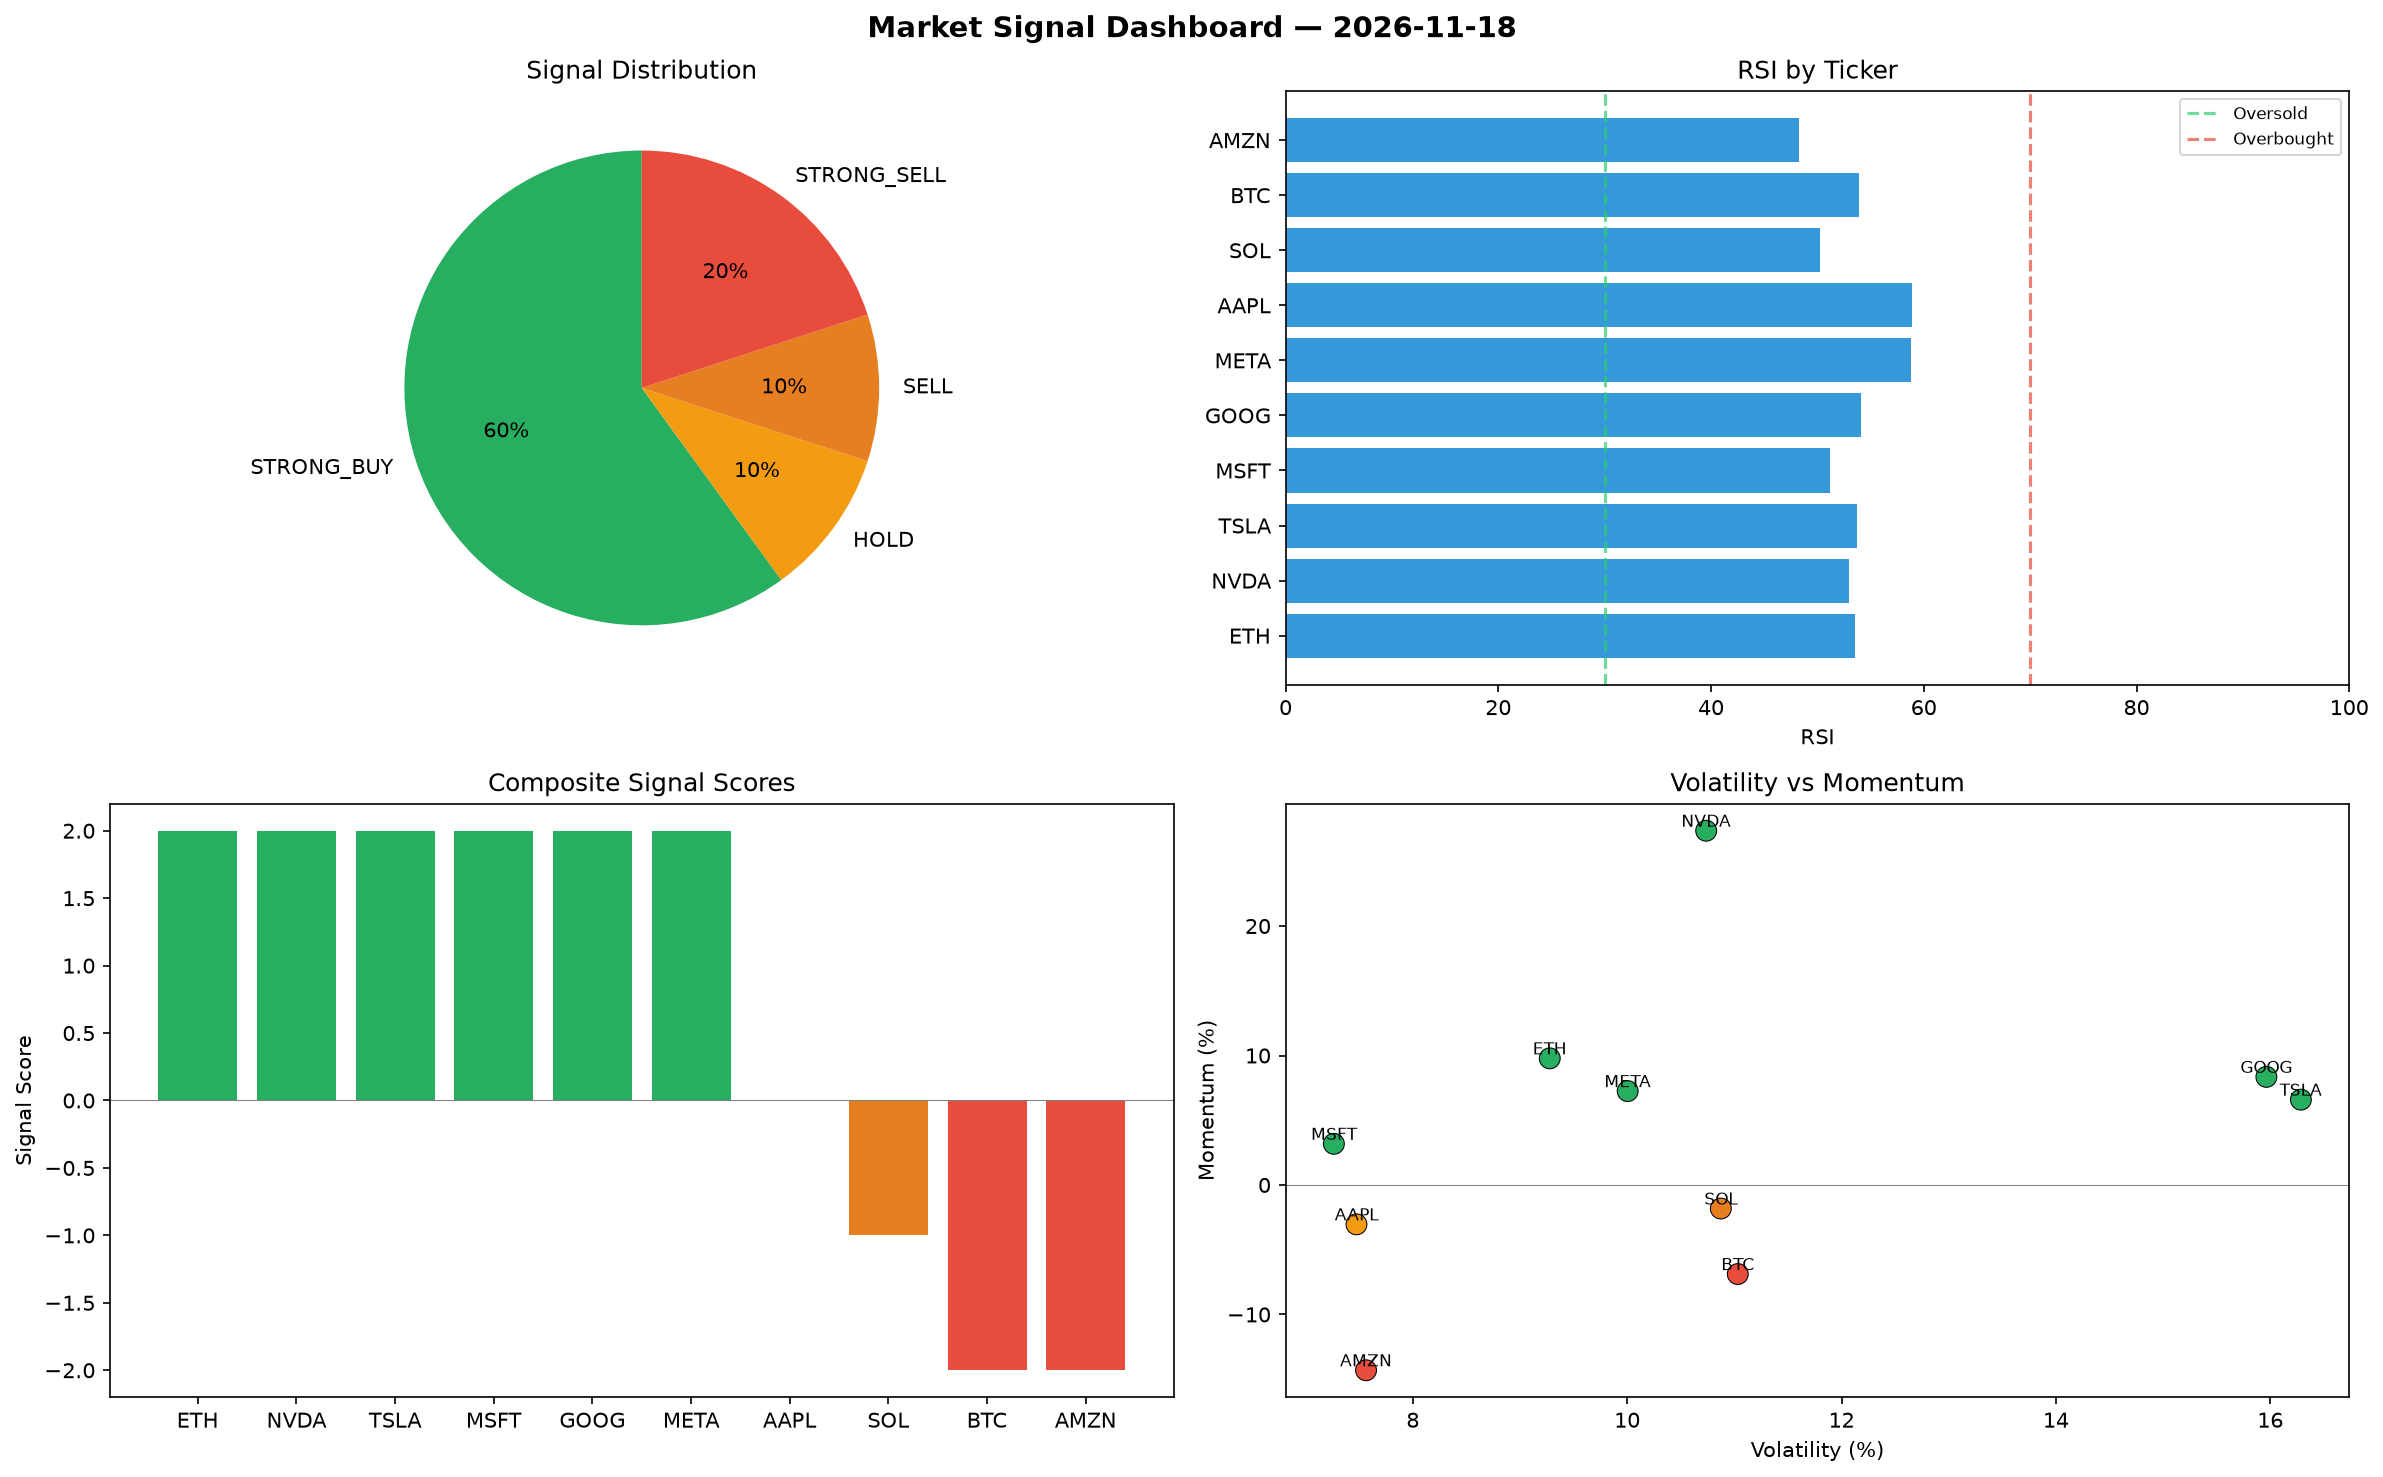
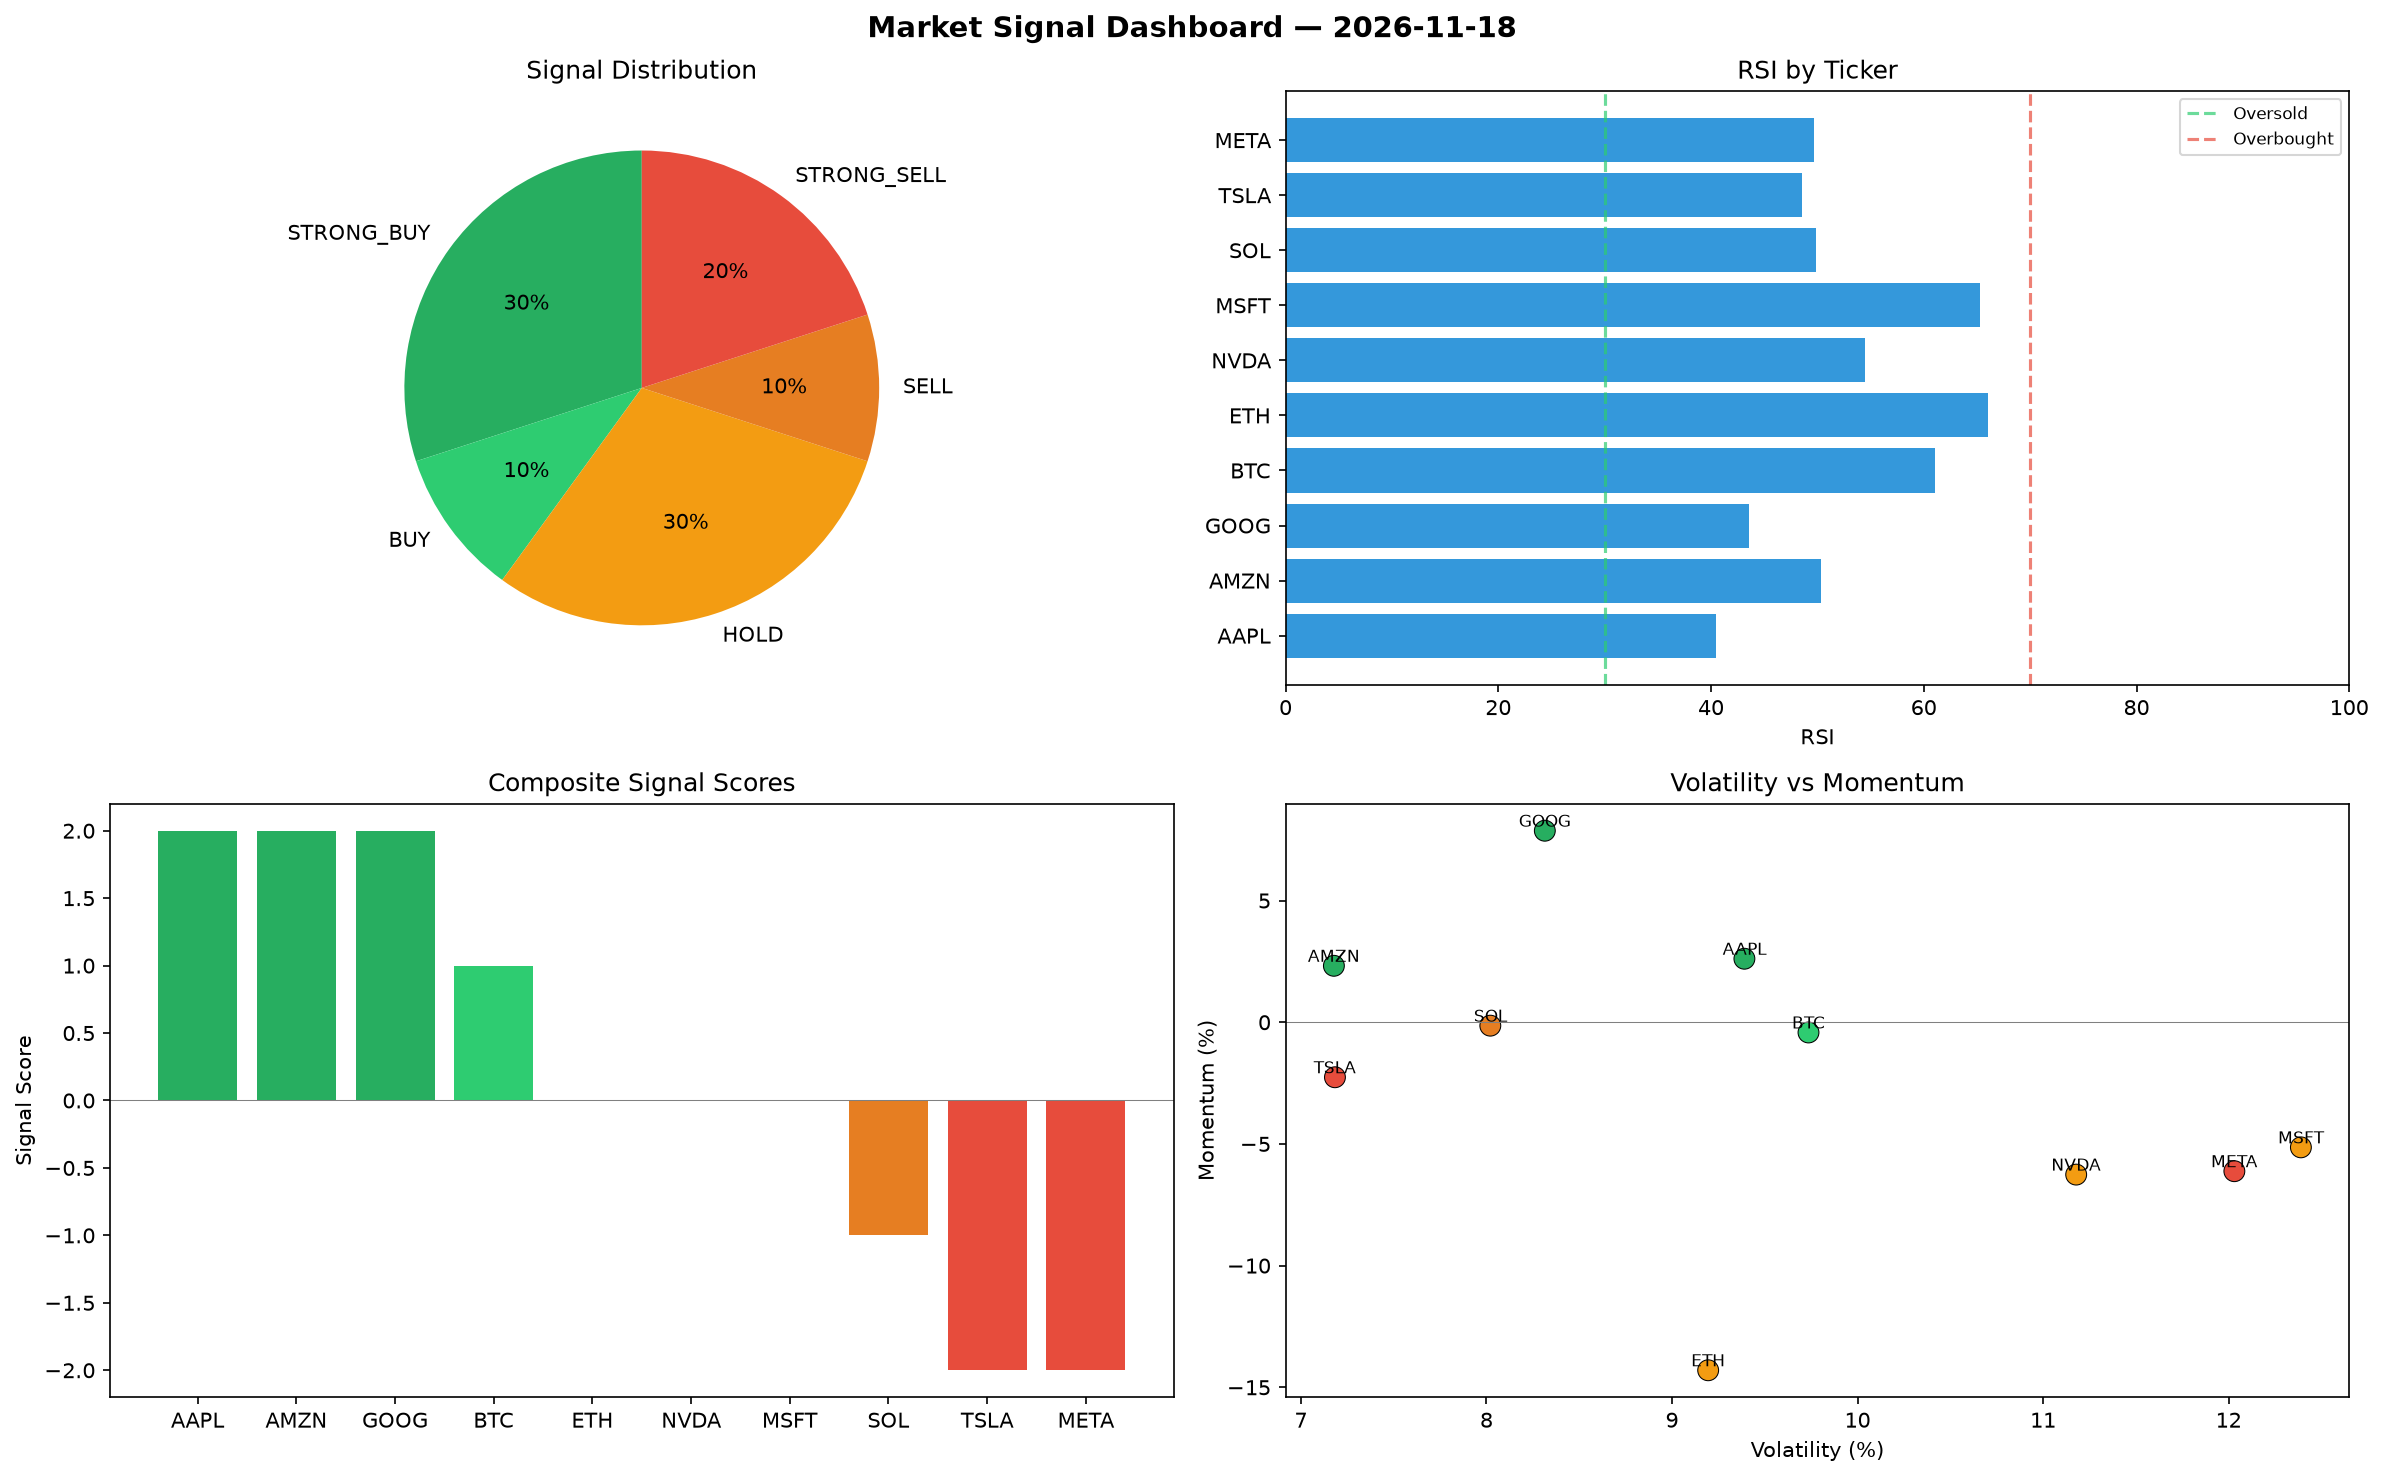
automated-bots: market signals 2026-11-18T10:28

diff --git a/logs/2026-11-18.md b/logs/2026-11-18.md
@@ -1,6 +1,6 @@
 # Market Signal Report — 2026-11-18
 
-**Run ID:** `91dcbb60d6` | **Buy:** 6 | **Sell:** 3 | **Hold:** 1
+**Run ID:** `f32b46c21a` | **Buy:** 4 | **Sell:** 3 | **Hold:** 3
 
 ![Dashboard](2026-11-18_dashboard.png)
 
@@ -8,28 +8,28 @@
 
 | Ticker | Price | Signal | Score | RSI | Momentum | Confidence |
 |--------|-------|--------|-------|-----|----------|------------|
-| ETH | $222.29 | **STRONG_BUY** | 2 | 53.56 | 0.0978 | 0.5 |
-| NVDA | $2829.89 | **STRONG_BUY** | 2 | 52.94 | 0.2736 | 0.5 |
-| TSLA | $2703.67 | **STRONG_BUY** | 2 | 53.68 | 0.0659 | 0.5 |
-| MSFT | $4023.63 | **STRONG_BUY** | 2 | 51.17 | 0.0318 | 0.5 |
-| GOOG | $1536.67 | **STRONG_BUY** | 2 | 54.13 | 0.0835 | 0.5 |
-| META | $1608.58 | **STRONG_BUY** | 2 | 58.82 | 0.0725 | 0.5 |
-| AAPL | $2249.51 | **HOLD** | 0 | 58.89 | -0.0304 | 0.0 |
-| SOL | $3998.16 | **SELL** | -1 | 50.26 | -0.0182 | 0.25 |
-| BTC | $4005.75 | **STRONG_SELL** | -2 | 53.91 | -0.0688 | 0.5 |
-| AMZN | $794.87 | **STRONG_SELL** | -2 | 48.24 | -0.1431 | 0.5 |
+| AAPL | $3567.67 | **STRONG_BUY** | 2 | 40.47 | 0.0261 | 0.5 |
+| AMZN | $4366.09 | **STRONG_BUY** | 2 | 50.38 | 0.0232 | 0.5 |
+| GOOG | $1239.15 | **STRONG_BUY** | 2 | 43.54 | 0.0787 | 0.5 |
+| BTC | $869.93 | **BUY** | 1 | 61.03 | -0.0042 | 0.25 |
+| ETH | $2667.41 | **HOLD** | 0 | 66.08 | -0.143 | 0.0 |
+| NVDA | $2235.38 | **HOLD** | 0 | 54.45 | -0.0626 | 0.0 |
+| MSFT | $3578.62 | **HOLD** | 0 | 65.29 | -0.0514 | 0.0 |
+| SOL | $3804.3 | **SELL** | -1 | 49.87 | -0.0014 | 0.25 |
+| TSLA | $633.29 | **STRONG_SELL** | -2 | 48.56 | -0.0226 | 0.5 |
+| META | $1474.74 | **STRONG_SELL** | -2 | 49.67 | -0.0612 | 0.5 |
 
 ## Delta vs Yesterday
 
 | Ticker | Today | Yesterday | Price Change | Signal Changed |
 |--------|-------|-----------|-------------|----------------|
-| ETH | STRONG_BUY | BUY | 📉 -95.08% | ⚠ YES |
-| NVDA | STRONG_BUY | STRONG_SELL | 📈 863.6% | ⚠ YES |
-| TSLA | STRONG_BUY | STRONG_SELL | 📉 -19.82% | ⚠ YES |
-| MSFT | STRONG_BUY | HOLD | 📈 451.08% | ⚠ YES |
-| GOOG | STRONG_BUY | BUY | 📉 -67.6% | ⚠ YES |
-| META | STRONG_BUY | SELL | 📈 106.28% | ⚠ YES |
-| AAPL | HOLD | STRONG_SELL | 📉 -51.21% | ⚠ YES |
-| SOL | SELL | STRONG_BUY | 📉 -18.7% | ⚠ YES |
-| BTC | STRONG_SELL | HOLD | 📉 -20.45% | ⚠ YES |
-| AMZN | STRONG_SELL | HOLD | 📉 -42.02% | ⚠ YES |
+| AAPL | STRONG_BUY | STRONG_SELL | 📉 -22.62% | ⚠ YES |
+| AMZN | STRONG_BUY | HOLD | 📈 218.46% | ⚠ YES |
+| GOOG | STRONG_BUY | BUY | 📉 -73.88% | ⚠ YES |
+| BTC | BUY | HOLD | 📉 -82.72% | ⚠ YES |
+| ETH | HOLD | BUY | 📉 -40.98% | ⚠ YES |
+| NVDA | HOLD | STRONG_SELL | 📈 661.16% | ⚠ YES |
+| MSFT | HOLD | HOLD | 📈 390.13% | — |
+| SOL | SELL | STRONG_BUY | 📉 -22.64% | ⚠ YES |
+| TSLA | STRONG_SELL | STRONG_SELL | 📉 -81.22% | — |
+| META | STRONG_SELL | SELL | 📈 89.12% | ⚠ YES |
